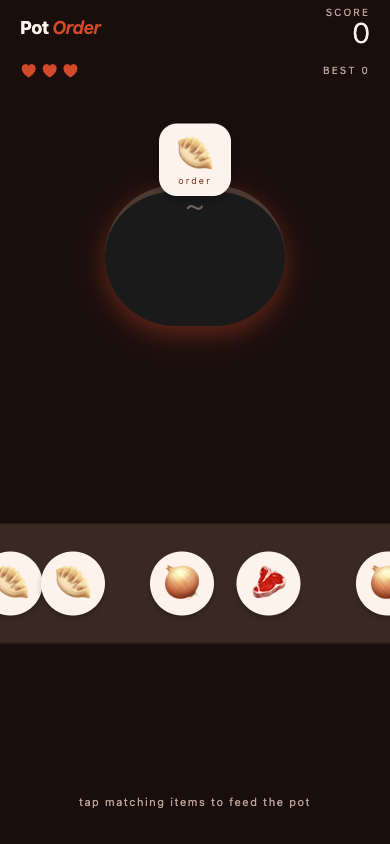
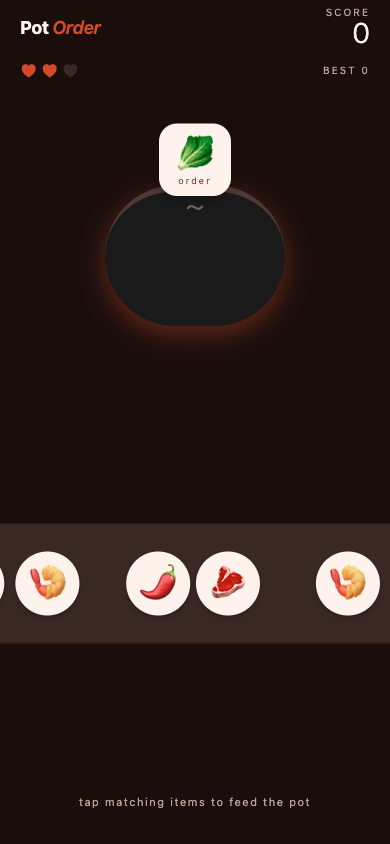
Redesign Pages site (v2 dark red-brown / Bree Serif theme)
- New 5-tab portfolio nav. Dark red-brown bg, chili-red accent;
  Bree Serif display + Inter body + JetBrains Mono.
- Two fresh iPhone-viewport screenshots: opening round (pot order
  + populated belt + 2 lives) and the Service Over modal (final
  score / best combo / high score / Cook again).

diff --git a/docs/index.html b/docs/index.html
@@ -4,7 +4,7 @@
 <meta charset="UTF-8" />
 <meta name="viewport" content="width=device-width, initial-scale=1" />
 <title>Pot Order — Cook on the clock.</title>
-<meta name="description" content="A single-screen reflex puzzle for iPhone. The pot calls out an ingredient — tap the matching item before it slides off the belt. No ads, no IAP, no signup." />
+<meta name="description" content="A one-thumb cooking puzzle for iPhone. The pot calls out an ingredient — tap the matching item on the belt before it slides off. No ads, no IAP, no banners." />
 <meta name="theme-color" content="#1a0e0c" />
 <link rel="preconnect" href="https://fonts.googleapis.com" /><link rel="preconnect" href="https://fonts.gstatic.com" crossorigin /><link href="https://fonts.googleapis.com/css2?family=Bree+Serif&family=Inter:wght@400;500;600&family=JetBrains+Mono:wght@400;500&display=swap" rel="stylesheet" />
 <link rel="stylesheet" href="app.css" />
@@ -23,12 +23,12 @@
   <section class="hero" aria-labelledby="hero-title">
     <p class="hero-eyebrow"><span class="beta-badge">Now in beta · iOS via Expo Go</span></p>
     <h1 id="hero-title">Cook on the clock.</h1>
-    <p class="lede">A single-screen reflex puzzle for iPhone. The pot calls out an ingredient — tap the matching item before it slides off the belt. No ads, no IAP, no signup.</p>
+    <p class="lede">A one-thumb cooking puzzle for iPhone. The pot calls out an ingredient — tap the matching item on the belt before it slides off. No ads, no IAP, no banners.</p>
     <div class="cta-row">
       <a class="cta-primary" href="https://github.com/kiddkevin00/potorder" rel="noopener" target="_blank">★ Star on GitHub</a>
       <a class="cta-secondary" href="#howtoplay">How it works →</a>
     </div>
-    <p class="trust-row"><span>Offline</span><span>No ads</span><span>No IAP</span><span>Open source</span></p>
+    <p class="trust-row"><span>Offline-first</span><span>No ads</span><span>No IAP</span><span>Open source</span></p>
   </section>
 
   <section id="features" aria-labelledby="features-h">
@@ -36,12 +36,12 @@
     <h2 id="features-h">What's in the build</h2>
     <p class="subhead">The whole feature set, plainly listed — no upsells gating the basics.</p>
     <div class="feature-grid">
-      <article class="feature-card"><span class="feature-icon">◉</span><h3>One core loop</h3><p>Pot orders an ingredient → tap the matching item on the belt → score. Repeat until three misses end the round.</p></article>
-      <article class="feature-card"><span class="feature-icon">×</span><h3>Combo multiplier</h3><p>Consecutive correct matches build a multiplier (×2, ×3, …) that scales your points up.</p></article>
-      <article class="feature-card"><span class="feature-icon">✦</span><h3>Fever mode</h3><p>Hit an 8-combo and every match doubles for six seconds. Chain another 8 to refresh it.</p></article>
-      <article class="feature-card"><span class="feature-icon">⏵</span><h3>Belt speeds up</h3><p>As your score climbs, the conveyor travel time scales down. Late game is genuinely tight.</p></article>
-      <article class="feature-card"><span class="feature-icon">◷</span><h3>High score saved</h3><p>Your best run is persisted locally. No leaderboard server, no friend compare.</p></article>
-      <article class="feature-card"><span class="feature-icon">⊘</span><h3>No banners</h3><p>No interstitials. No 'watch ad to continue'. The 25-line credits are at the bottom of the source on GitHub.</p></article>
+      <article class="feature-card"><span class="feature-icon">▶</span><h3>One-thumb reflex</h3><p>Tap-only. No swipe, no drag, no menus mid-game. The whole loop is order → see → tap.</p></article>
+      <article class="feature-card"><span class="feature-icon">✱</span><h3>Combo multiplier</h3><p>Consecutive correct matches build a combo. Every five matches in a row bumps the point value of each subsequent match.</p></article>
+      <article class="feature-card"><span class="feature-icon">★</span><h3>Fever mode</h3><p>Hit a combo of eight and Fever activates — every match doubles for six seconds. The pot glows accent-color while it's live.</p></article>
+      <article class="feature-card"><span class="feature-icon">⏱</span><h3>Belt speeds up</h3><p>The conveyor's travel time shortens as your score grows. Spawn rate tightens too. The early game gives you room; the late game doesn't.</p></article>
+      <article class="feature-card"><span class="feature-icon">♥</span><h3>Three strikes</h3><p>Three misses end the round. The wrong-tap bounce and the slide-off-the-edge both count.</p></article>
+      <article class="feature-card"><span class="feature-icon">✦</span><h3>Local high score only</h3><p>Best score lives on this device. No leaderboard server, no account, no telemetry, no IAP.</p></article>
     </div>
   </section>
 
@@ -50,10 +50,11 @@
     <h2 id="howto-h">From cold-start to good-at-it</h2>
     <p class="subhead">A few short steps. The app gets out of your way after that.</p>
     <div class="steps-grid">
-      <article class="step-card"><span class="step-num">01</span><h3>Watch the pot</h3><p>The pot at the top shows one ingredient at a time — that's the active order.</p></article>
-      <article class="step-card"><span class="step-num">02</span><h3>Watch the belt</h3><p>Items ride the conveyor across the bottom. They slide off the left edge on a timer.</p></article>
-      <article class="step-card"><span class="step-num">03</span><h3>Tap matching items</h3><p>Tap the ingredient that matches the order. Tap wrong and you lose a life; tap right and combo bumps.</p></article>
-      <article class="step-card"><span class="step-num">04</span><h3>Hit combo 8 for Fever</h3><p>Eight matches in a row triggers Fever — six seconds of double scoring. Chain another 8 to refresh.</p></article>
+      <article class="step-card"><span class="step-num">01</span><h3>Tap Start cooking</h3><p>The menu sums up the rules in three lines. Tap Start cooking to enter the round.</p></article>
+      <article class="step-card"><span class="step-num">02</span><h3>Watch the order</h3><p>The pot at the top wears a speech bubble with the next ingredient. Order changes each match.</p></article>
+      <article class="step-card"><span class="step-num">03</span><h3>Tap the right item</h3><p>Belt items ride from right to left. Tap the one that matches the order before it falls off the edge.</p></article>
+      <article class="step-card"><span class="step-num">04</span><h3>Build the combo</h3><p>Five consecutive correct matches starts the multiplier; eight triggers Fever (2× scoring for six seconds).</p></article>
+      <article class="step-card"><span class="step-num">05</span><h3>Don't miss three times</h3><p>Wrong tap or a matching item that slid off both count. Three misses ends the round.</p></article>
     </div>
   </section>
 
@@ -61,7 +62,7 @@
     <p class="eyebrow">Screenshots</p>
     <h2 id="shots-h">What it looks like on a phone</h2>
     <p class="subhead">Captured from the running app at iPhone 14 viewport.</p>
-    <div class="shots-grid"><figure class="shot-card"><img src="screenshots/01-gameplay.png" alt="Opening round — full belt, order bubble visible. screenshot" loading="lazy" /><figcaption class="shot-caption"><span class="n">01</span><span>Opening round — full belt, order bubble visible.</span></figcaption></figure><figure class="shot-card"><img src="screenshots/04-played.png" alt="Eight matches in — combo ×8, Fever just triggered. screenshot" loading="lazy" /><figcaption class="shot-caption"><span class="n">02</span><span>Eight matches in — combo ×8, Fever just triggered.</span></figcaption></figure></div>
+    <div class="shots-grid"><figure class="shot-card"><img src="screenshots/01-gameplay.png" alt="Opening round. Pot orders a lettuce; conveyor brings shrimp, chili, steak; two lives left after a couple of early misses. screenshot" loading="lazy" /><figcaption class="shot-caption"><span class="n">01</span><span>Opening round. Pot orders a lettuce; conveyor brings shrimp, chili, steak; two lives left after a couple of early misses.</span></figcaption></figure><figure class="shot-card"><img src="screenshots/02-combo.png" alt="Service over modal — final score, best combo, all-time high score, Cook again. screenshot" loading="lazy" /><figcaption class="shot-caption"><span class="n">02</span><span>Service over modal — final score, best combo, all-time high score, Cook again.</span></figcaption></figure></div>
   </section>
 
   <footer class="colophon">

diff --git a/docs/app.css b/docs/app.css
@@ -4,17 +4,17 @@
   --bg:          #1a0e0c;
   --surface:     #231311;
   --ink:         #fef3ec;
-  --ink-muted:   #bda49a;
-  --ink-subtle:  #7a6258;
+  --ink-muted:   #c2a59a;
+  --ink-subtle:  #8a6e62;
   --rule:        #3a2823;
-  --rule-soft:   #2a1d18;
+  --rule-soft:   #2a1c18;
   --accent:      #d24a2a;
   --accent-deep: #8a2f1a;
   --accent-rgb:  210, 74, 42;
 
-  --font-display: 'Bree Serif', 'Iowan Old Style', Georgia, serif;
-  --font-body:    'Inter', system-ui, sans-serif;
-  --font-mono:    'JetBrains Mono', ui-monospace, monospace;
+  --font-display: 'Bree Serif', Georgia, serif;
+  --font-body:    'Inter', -apple-system, system-ui, sans-serif;
+  --font-mono:    'JetBrains Mono', ui-monospace, Menlo, monospace;
 
   --shadow-card: 0 1px 2px rgba(0,0,0,0.05), 0 10px 24px -12px rgba(0,0,0,0.12);
   --measure: 40rem;

diff --git a/docs/privacy.html b/docs/privacy.html
@@ -32,13 +32,13 @@
       <p class="eyebrow">Scope</p>
       <h2>What data the app handles</h2>
       <p>The app only touches data you create or capture inside it.</p>
-      <ul><li><strong>High score</strong> and <strong>haptics setting</strong>.</li></ul>
+      <ul><li><strong>High score</strong> (best round you've cleared).</li><li><strong>Haptics setting</strong> (on/off).</li></ul>
     </section>
 
     <section>
       <p class="eyebrow">Storage</p>
       <h2>How that data is stored</h2>
-      <p>Both values live in AsyncStorage on your device. They never leave the phone.</p>
+      <p>Both values live in the app's sandboxed local storage on your device, using React Native's <span class="kbd">AsyncStorage</span>. They never leave your device.</p>
       <ul>
         <li>Deleting items from inside the app removes them permanently from your device.</li>
         <li>Uninstalling the app removes all stored data.</li>

diff --git a/docs/support.html b/docs/support.html
@@ -27,7 +27,7 @@
   </section>
 
   <section style="padding-top:0">
-    <div class="faq"><details><summary>Is there an undo or pause?</summary><p>No undo (the conveyor never sits still). The app naturally pauses when backgrounded; the run resumes correctly on foreground.</p></details><details><summary>Can I turn off haptics?</summary><p>Yes — toggle on the start screen below the Start button. Persists across launches.</p></details><details><summary>Why emoji instead of illustrated food?</summary><p>Emoji ship with iOS, render crisply at every size, and avoid licensing custom artwork in this MVP. A future version may swap in custom illustrations; the mechanics will stay the same.</p></details><details><summary>Will there be levels?</summary><p>Not in this build. The single endless mode is the entire game. Levels and themed worlds are a separate scope.</p></details></div>
+    <div class="faq"><details><summary>How fast does the belt get?</summary><p>Belt travel time scales from 6 seconds down to 2.2 seconds based on your current score (linear ramp ending around score 60). Spawn rate also tightens.</p></details><details><summary>What exactly triggers Fever?</summary><p>Hitting a combo of exactly 8 (and every multiple of 8 thereafter, if not already in Fever). Fever lasts six seconds and doubles every point during that window.</p></details><details><summary>Why do I lose a life when an item slides off?</summary><p>An item that slides off without being tapped counts as a miss only if it matched the active order. Items of other colors sliding off don't penalize you.</p></details><details><summary>Can I turn off haptics?</summary><p>Yes — the toggle is on the start menu below the Start cooking button. The setting persists across launches.</p></details><details><summary>Is there a leaderboard?</summary><p>No. Best score is local to this device. There's no server to upload to and no account to sign into.</p></details></div>
   </section>
 
   <aside class="contact-card">